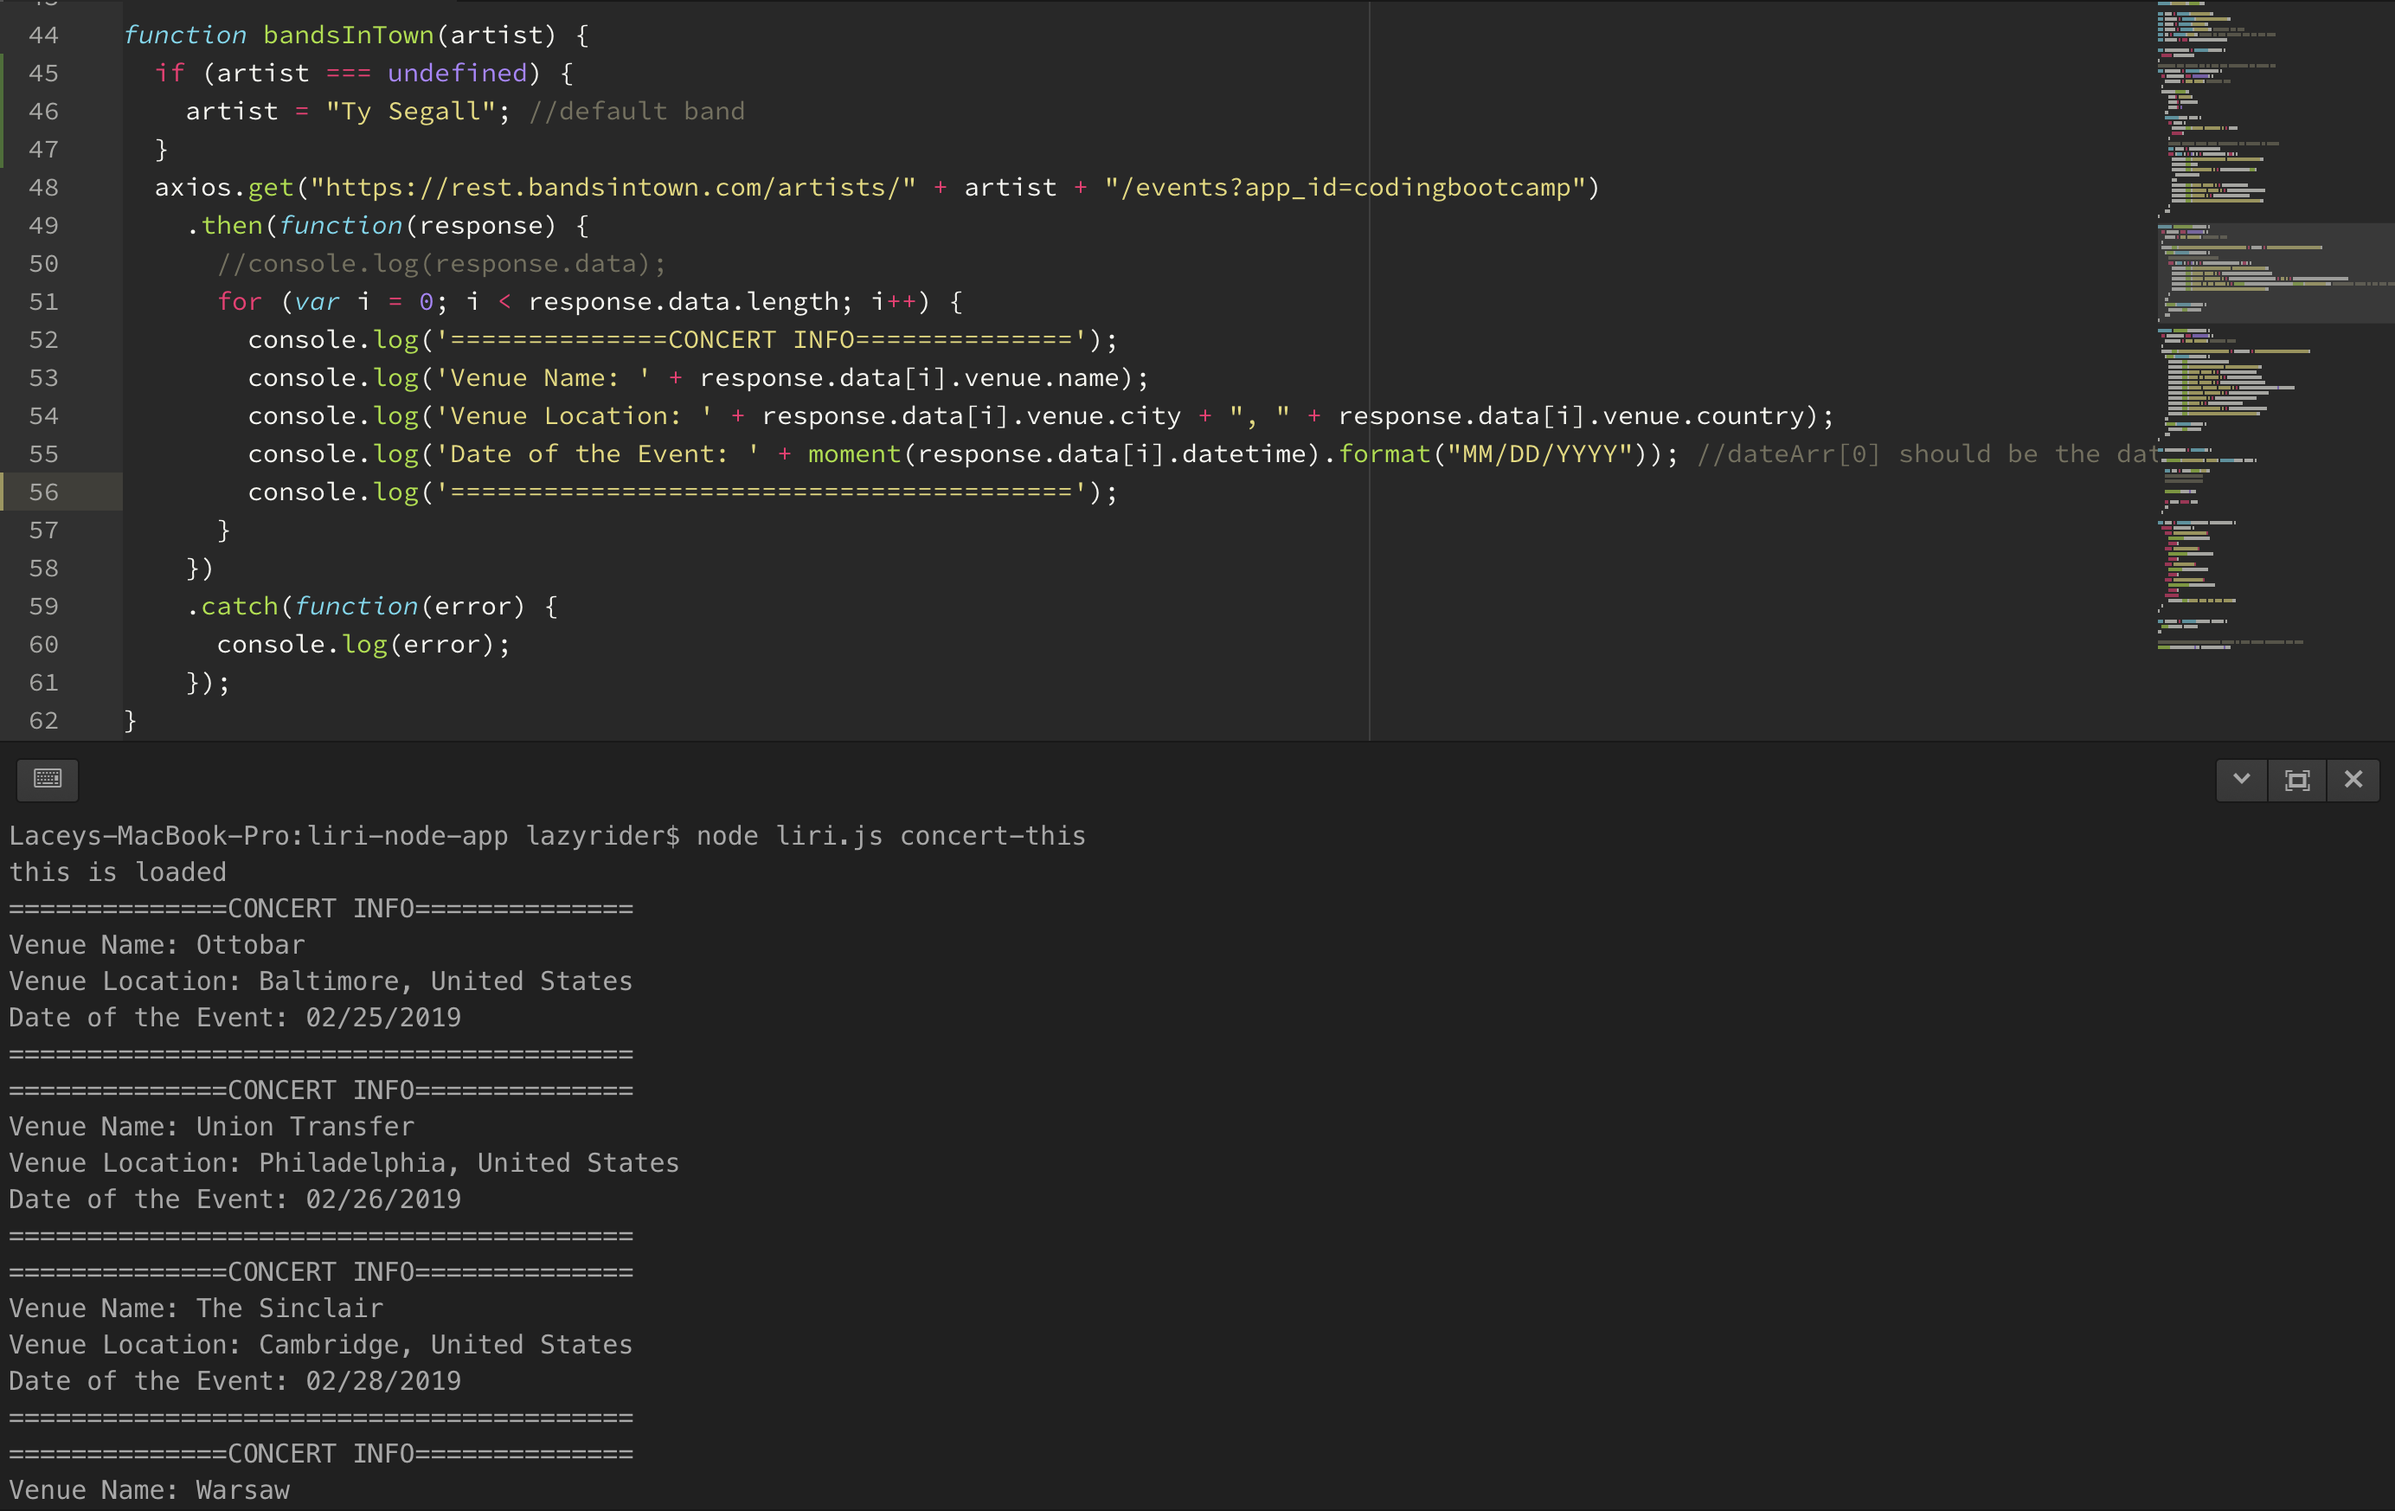
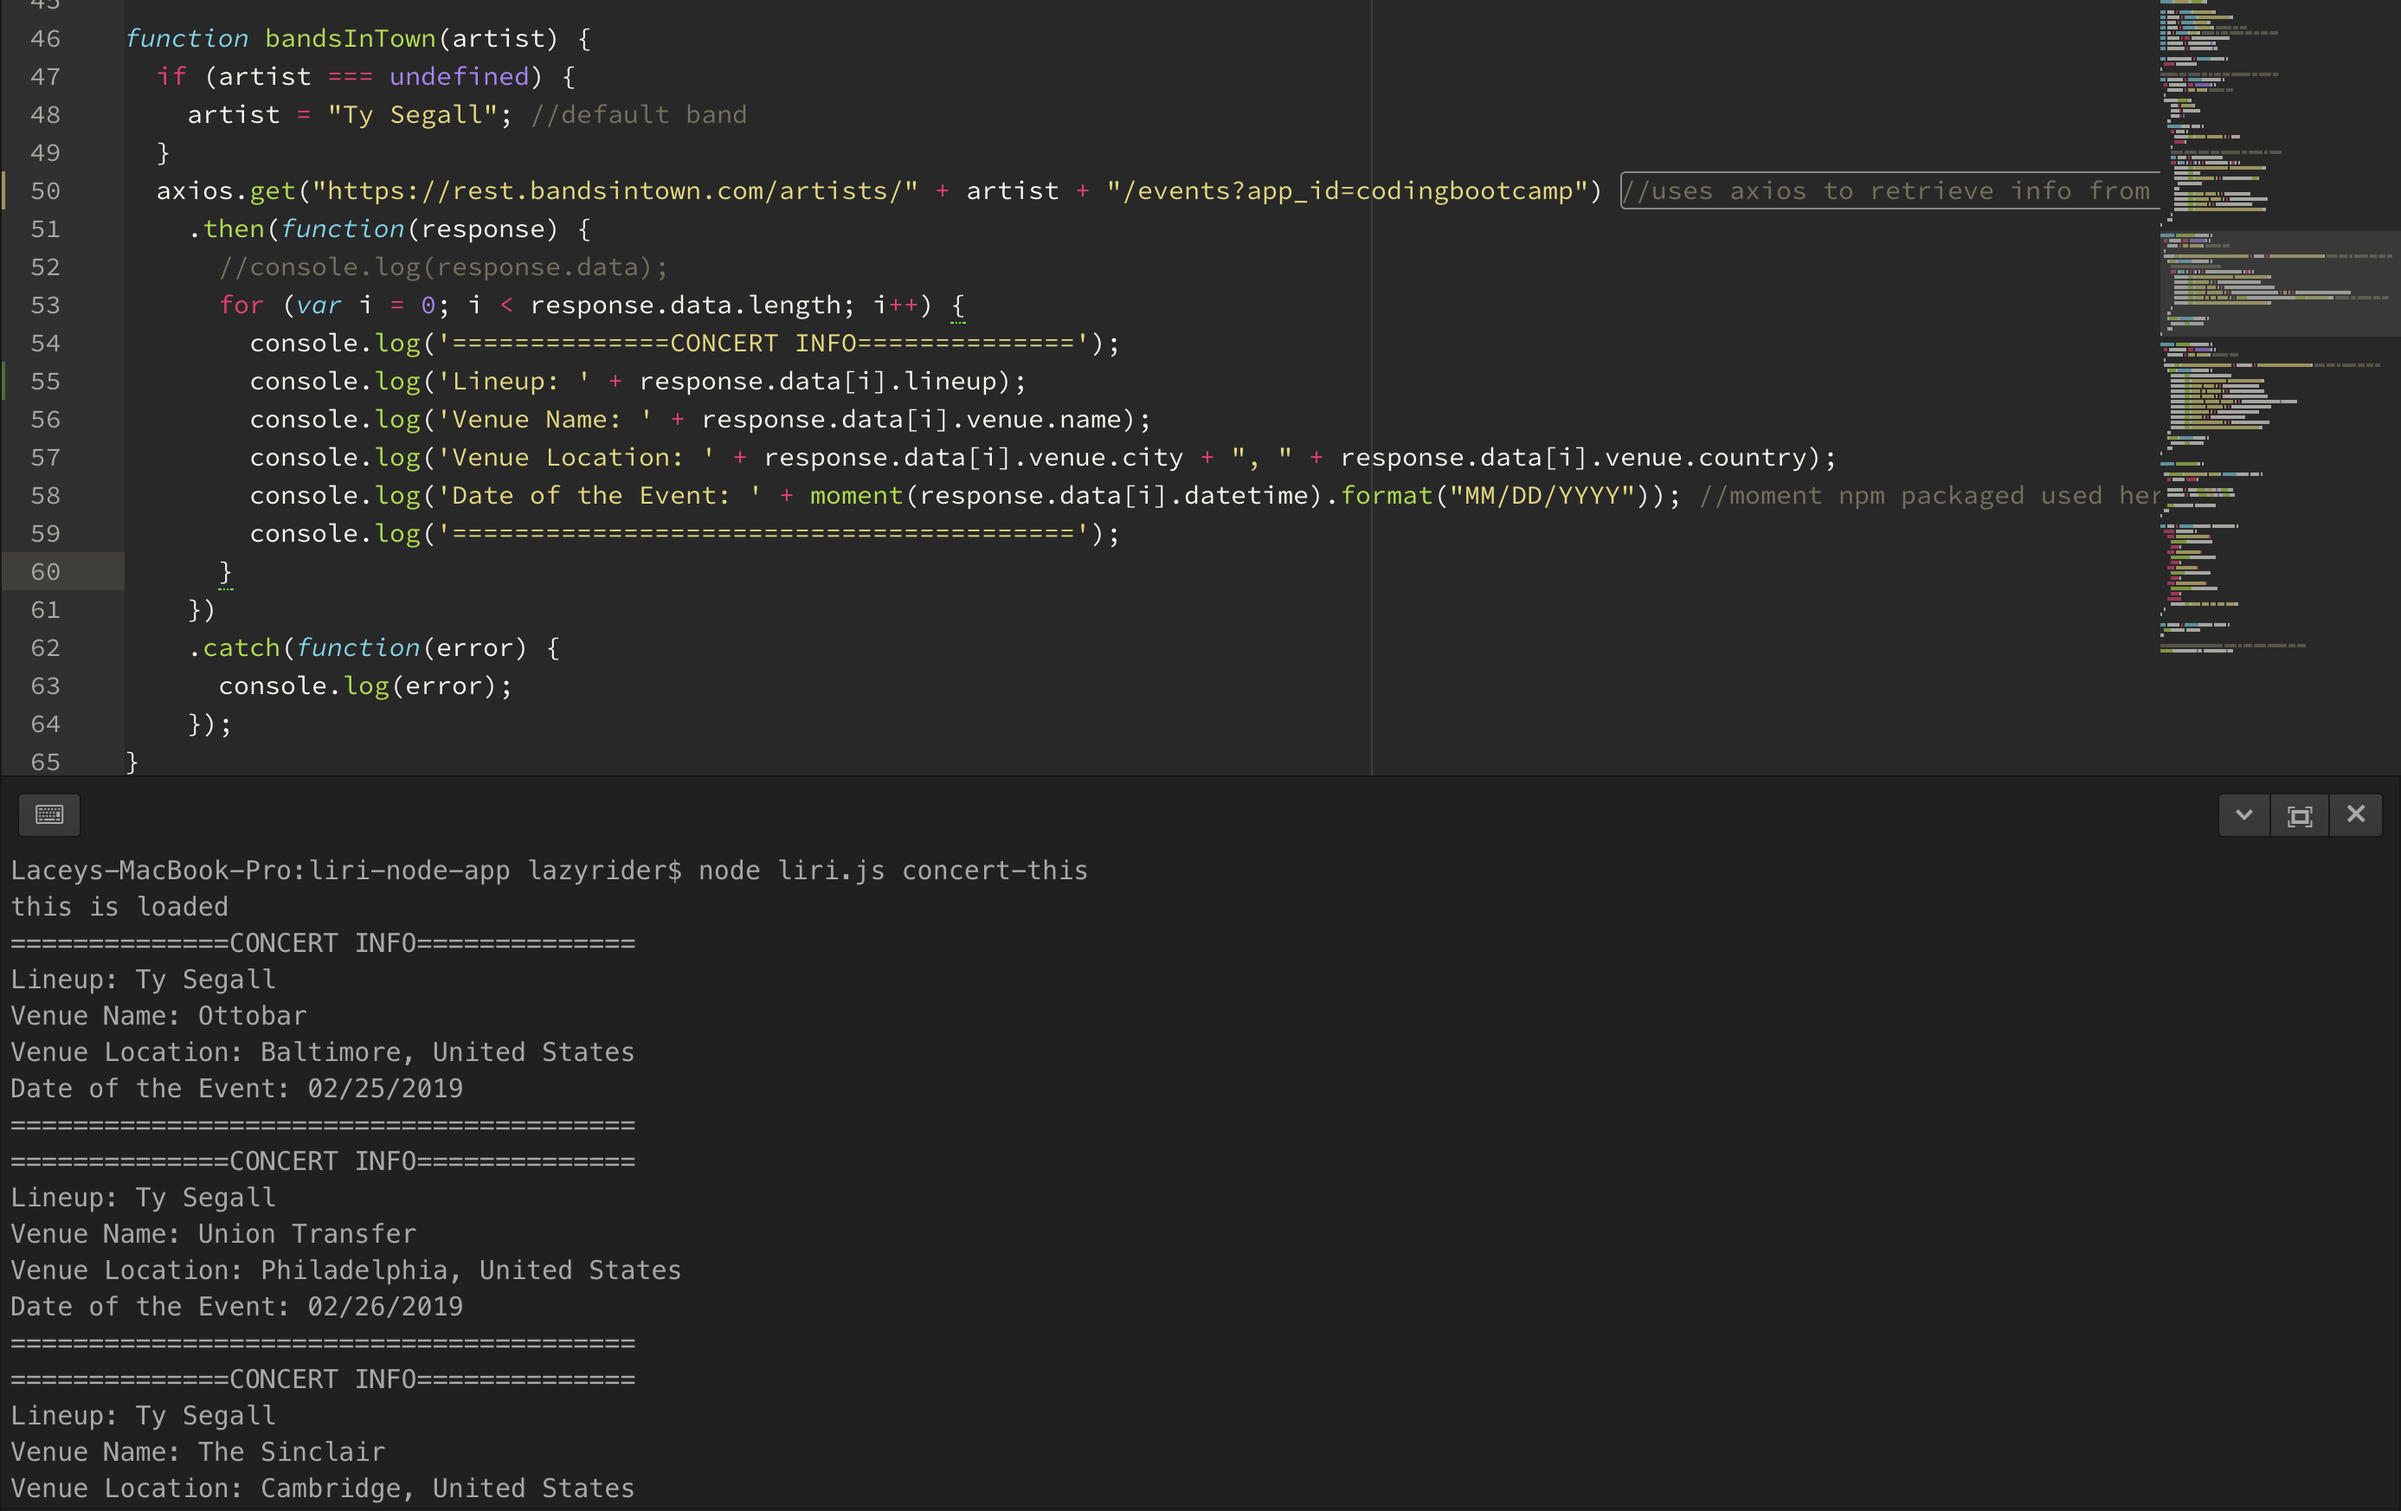
updating screenshots to that concerts include lineup

diff --git a/liri.js b/liri.js
@@ -47,11 +47,12 @@ function bandsInTown(artist) {
   if (artist === undefined) {
     artist = "Ty Segall"; //default band
   }
-  axios.get("https://rest.bandsintown.com/artists/" + artist + "/events?app_id=codingbootcamp")
+  axios.get("https://rest.bandsintown.com/artists/" + artist + "/events?app_id=codingbootcamp") //uses axios to retrieve info from API
     .then(function(response) {
       //console.log(response.data);
       for (var i = 0; i < response.data.length; i++) {
         console.log('==============CONCERT INFO==============');
+        console.log('Lineup: ' + response.data[i].lineup);
         console.log('Venue Name: ' + response.data[i].venue.name);
         console.log('Venue Location: ' + response.data[i].venue.city + ", " + response.data[i].venue.country);
         console.log('Date of the Event: ' + moment(response.data[i].datetime).format("MM/DD/YYYY")); //moment npm packaged used here
@@ -67,7 +68,7 @@ function getMovie(movieName) {
   if (movieName === undefined) {
     movieName = "Mr. Nobody"; //default Movie
   }
-  axios.get("https://www.omdbapi.com/?t=" + movieName + "&y=&plot=short&apikey=trilogy")
+  axios.get("https://www.omdbapi.com/?t=" + movieName + "&y=&plot=short&apikey=trilogy") //uses axios to retrieve info from API
     .then(function(response) {
       console.log(response.data.Ratings);
       console.log('==============MOVIE INFO==============');

diff --git a/README.md b/README.md
@@ -22,30 +22,30 @@ APIs:
 
 ### OMDB
 
-   OMDB Example - No movie added by user.:
+   OMDB Example - No movie added by user:
    ![alt text](https://github.com/lulu-gibbons/liri-node-app/blob/master/LIRI_SS/LIRI_movie_default.png "LIRI OMDB - No movie entered")
-   OMDB Example - With movie added by user.:
+   OMDB Example - With movie added by user:
    ![alt text](https://github.com/lulu-gibbons/liri-node-app/blob/master/LIRI_SS/LIRI_movie_with_user_input.png "LIRI OMDB - With movie entered")
 
 ### SPOTIFY
 
-  Spotify Example - No song added by user.:
+  Spotify Example - No song added by user:
   ![alt text](https://github.com/lulu-gibbons/liri-node-app/blob/master/LIRI_SS/LIRI_spotify_default.png "LIRI Spotify - No song entered")
-  Spotify Example - With song added by user.:
-  ![alt text](https://github.com/lulu-gibbons/liri-node-app/blob/master/LIRI_SS/LIRI_concerts_with_user_input.png "LIRI Spotify - With song entered")
+  Spotify Example - With song added by user:
+  ![alt text](https://github.com/lulu-gibbons/liri-node-app/blob/master/LIRI_SS/LIRI_spotify_with_user_input.png "LIRI Spotify - With song entered")
 
 ### BANDS IN TOWN
 
-   Bands in Town Example - No band added by user.:
+   Bands in Town Example - No band added by user:
    ![alt text](https://github.com/lulu-gibbons/liri-node-app/blob/master/LIRI_SS/LIRI_concerts_default.png "LIRI Bands in Town - No band entered")
-   Bands in Town Example - With band added by user.:
+   Bands in Town Example - With band added by user:
    ![alt text](https://github.com/lulu-gibbons/liri-node-app/blob/master/LIRI_SS/LIRI_concerts_with_user_input.png "LIRI Bands in Town - With band entered")
 
 ### DO WHAT IT SAYS
 
-  Do What It Says Spotify Example - Utilized the random.txt file to grab parameter information from Spotify.
+  Do What It Says Spotify Example - Utilized the random.txt file to grab parameter information from Spotify:
   ![alt text](https://github.com/lulu-gibbons/liri-node-app/blob/master/LIRI_SS/LIRI_doWhatItSays_with_song.png "LIRI Do What It Says - reads song from random.txt file")
-  Do What It Says Movie Example - Utilized the random.txt file to grab parameter information from OMDB.
+  Do What It Says Movie Example - Utilized the random.txt file to grab parameter information from OMDB:
   ![alt text](https://github.com/lulu-gibbons/liri-node-app/blob/master/LIRI_SS/LIRI_doWhatItSays_with_movie.png "LIRI Do What It Says - reads movie from random.txt file")
-  Do What It Says Concert Example - Utilized the random.txt file to grab parameter information from Bands in Town.
+  Do What It Says Concert Example - Utilized the random.txt file to grab parameter information from Bands in Town:
   * This is currently throwing an error so no screenshot if available yet. Bands in Town works correctly when not using the random.txt file.
